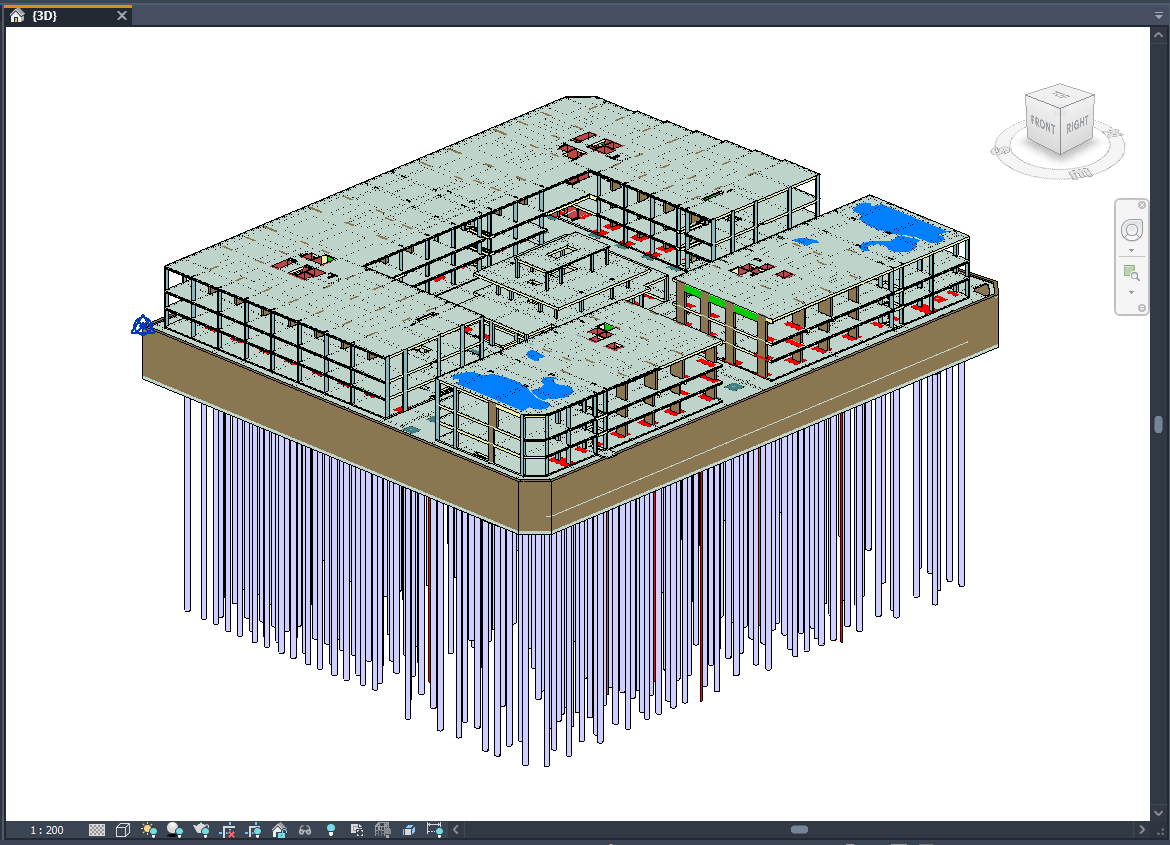
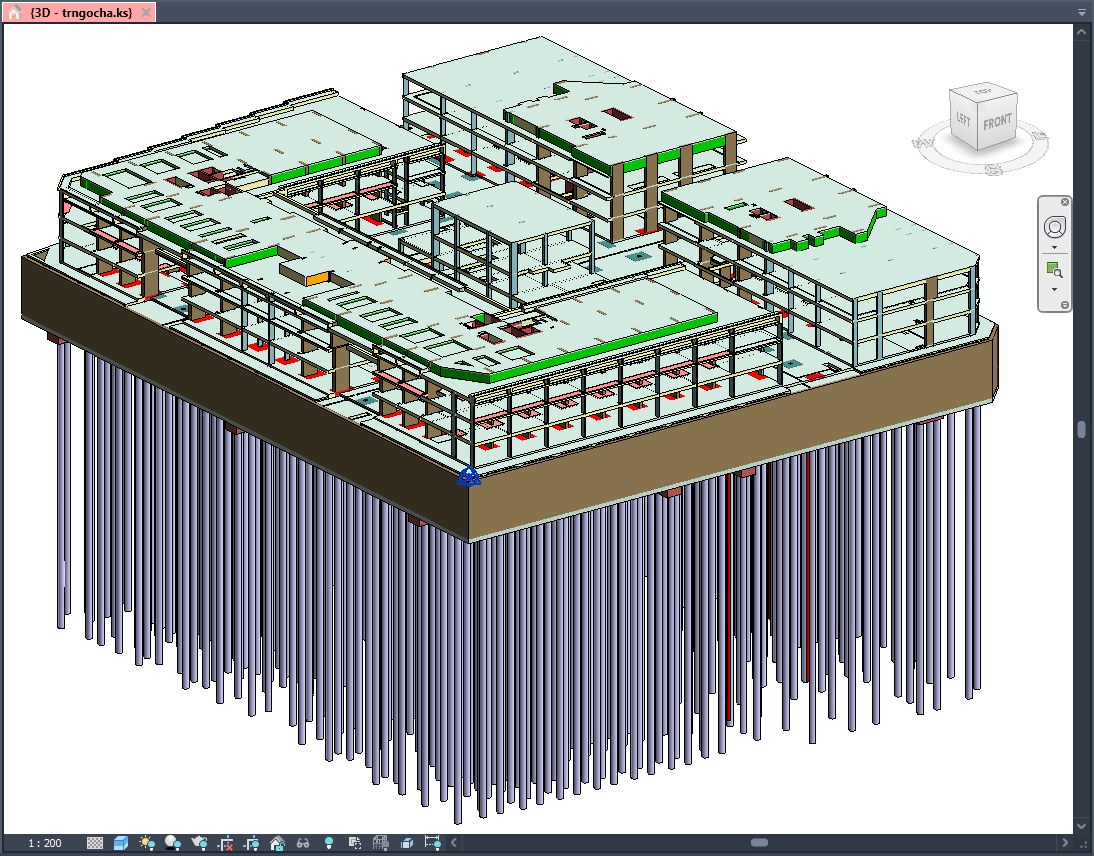
Lot 6.8: replace gallery with seven new model and clash images

diff --git a/app/data/projects.ts b/app/data/projects.ts
@@ -87,11 +87,13 @@ const rawProjects: ProjectItem[] = [
     },
     tools: ["ETABS", "SAFE", "Revit", "AutoCAD", "Navisworks", "TNH Tool"],
     images: [
-      "/projects/project3/6.8_ZZ.png",
+      "/projects/project3/6.8_4.png",
+      "/projects/project3/6.8_5.png",
       "/projects/project3/6.8_1.png",
       "/projects/project3/6.8_2.png",
-      "/projects/project3/6.8_sheet_1.png",
-      "/projects/project3/6.8_sheet_2.png",
+      "/projects/project3/6.8_3.png",
+      "/projects/project3/6.8_6.png",
+      "/projects/project3/6.8_7.png",
     ],
   },
   {
@@ -420,11 +422,13 @@ const rawProjects: ProjectItem[] = [
 
 const captionsById: Record<string, LocalizedText[]> = {
   project3: [
-    { ENG: "Federated structural model: piles, podium and residential towers", VIE: "Mô hình kết cấu tổng hợp: cọc, khối đế và các tòa tháp căn hộ" },
-    { ENG: "Podium levels and pile foundation", VIE: "Các tầng khối đế và hệ móng cọc" },
-    { ENG: "Residential towers with structural elements colour-coded by type", VIE: "Các tòa tháp căn hộ, cấu kiện phân màu theo loại" },
-    { ENG: "Issued sheet set organised by group in the Project Browser", VIE: "Bộ bản vẽ phát hành tổ chức theo nhóm trong Project Browser" },
-    { ENG: "Typical structural floor plan sheet, divided into zones", VIE: "Sheet mặt bằng kết cấu điển hình, chia theo zone" },
+    { ENG: "Federated structural model: four residential towers on a shared podium and pile foundation", VIE: "Mô hình kết cấu tổng hợp: bốn tòa tháp căn hộ trên khối đế và hệ móng cọc dùng chung" },
+    { ENG: "Federated structural model: view from the opposite corner, transfer elements colour-coded", VIE: "Mô hình kết cấu tổng hợp: góc nhìn đối diện, cấu kiện chuyển phân màu" },
+    { ENG: "Linked model 1: basements, podium and pile foundation", VIE: "File liên kết 1: tầng hầm, khối đế và hệ móng cọc" },
+    { ENG: "Linked model 2: tower superstructure above the podium", VIE: "File liên kết 2: kết cấu phần thân các tòa tháp phía trên khối đế" },
+    { ENG: "Tower superstructure: second view", VIE: "Kết cấu phần thân các tòa tháp: góc nhìn thứ hai" },
+    { ENG: "Navisworks Clash Detective: structure–structure (S–S) test at the transfer levels", VIE: "Navisworks Clash Detective: kiểm tra va chạm kết cấu–kết cấu (S–S) tại các tầng chuyển" },
+    { ENG: "Navisworks clash review: reinforcement conflict at a transfer level, located by grid and level", VIE: "Rà soát clash trên Navisworks: xung đột cốt thép tại tầng chuyển, định vị theo trục và cao độ" },
   ],
   project4: [
     { ENG: "Federated structural model: curved tower complex on pile foundation", VIE: "Mô hình kết cấu tổng hợp: cụm tháp cong trên hệ móng cọc" },
